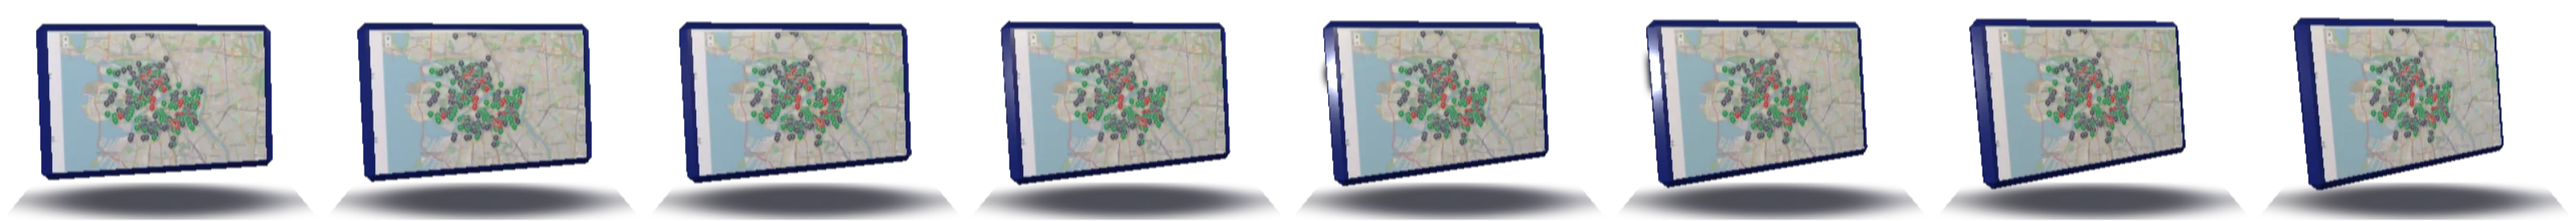
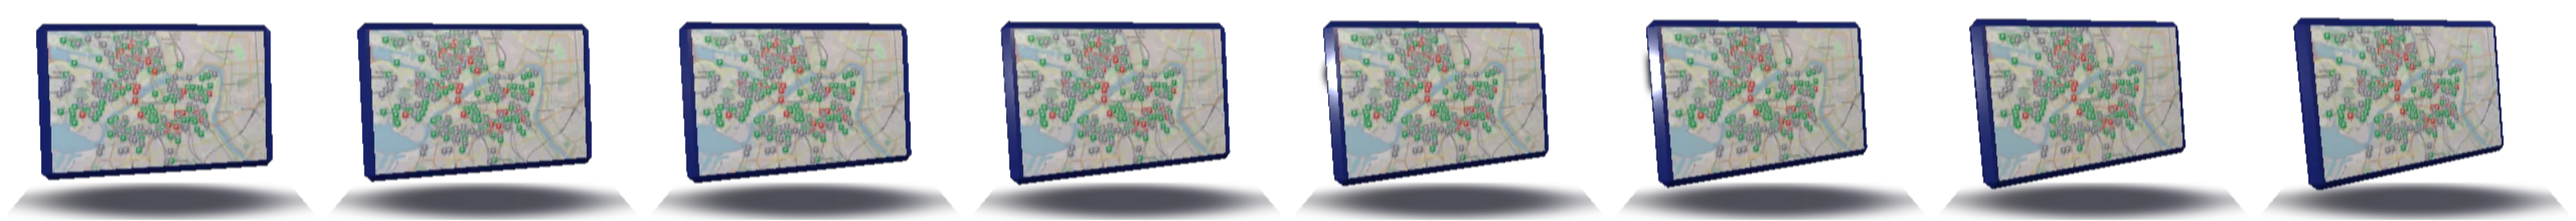
Deploy 14 November 2026 from 299e7bb-dirty

diff --git a/projects/index.html b/projects/index.html
@@ -54,7 +54,6 @@ html, body { margin: 0; background: #000; -webkit-text-size-adjust: 100%; }
 .zero[data-level="1"] { left: 0.6%; top: 3%; }
 .zero[data-level="2"] { left: 0.6%; top: 23%; }
 .zero[data-level="3"] { right: 0.6%; top: 25%; }
-.zero[data-level="4"] { left: 0.6%; top: 43%; }
 .zero .nm { display: block; width: max-content; margin: calc(-0.6 * var(--u)) auto 0; padding: calc(0.35 * var(--u)) calc(0.9 * var(--u)); background: #000; color: #FFF; font: bold calc(1.55 * var(--u))/1 "Times New Roman", Times, serif; letter-spacing: 0.08em; text-transform: uppercase; }
 /* on the right wall a name wider than its medallion grows to the left, not off the screen */
 .zero.r { display: flex; flex-direction: column; align-items: flex-end; }
@@ -96,8 +95,8 @@ a:hover > .tag, a:focus > .tag, .dog:hover > .tag { visibility: visible; }
   .zero .nm { display: none; }
   .zero.on { transform: translateY(-4%) scale(1.12); }
   .zero[data-level] { top: 3vw; right: auto; }
-  .zero[data-level="0"] { left: 2.5vw; } .zero[data-level="1"] { left: 21.75vw; } .zero[data-level="2"] { left: 41vw; }
-  .zero[data-level="3"] { left: 60.25vw; } .zero[data-level="4"] { left: 79.5vw; }
+  .zero[data-level="0"] { left: 6.4vw; } .zero[data-level="1"] { left: 29.8vw; } .zero[data-level="2"] { left: 53.2vw; }
+  .zero[data-level="3"] { left: 76.6vw; }
   .capbar { top: calc(3vw + 18vw + 4vw); gap: 2vw; }
   .capbar img { height: 6.6vw; }
   .about, .prompts { display: none; }
@@ -130,7 +129,6 @@ a:hover > .tag, a:focus > .tag, .dog:hover > .tag { visibility: visible; }
 <div data-ch="bolt" aria-label="Bolt" hidden><img src="../v/proto/tv/bolt-00.gif?v=f9b78617" alt=""><img src="../v/proto/tv/bolt-01.gif?v=777e9a08" alt="" hidden><img src="../v/proto/tv/bolt-02.gif?v=1770ad70" alt="" hidden><img src="../v/proto/tv/bolt-03.gif?v=4e6ebb5a" alt="" hidden><img src="../v/proto/tv/bolt-04.gif?v=e1c7c0a1" alt="" hidden><img src="../v/proto/tv/bolt-05.gif?v=3db861fa" alt="" hidden><img src="../v/proto/tv/bolt-06.gif?v=394e3b3c" alt="" hidden><img src="../v/proto/tv/bolt-07.gif?v=4099d8c2" alt="" hidden><img src="../v/proto/tv/bolt-08.gif?v=a8b8290f" alt="" hidden><img src="../v/proto/tv/bolt-09.gif?v=70c81fd9" alt="" hidden><img src="../v/proto/tv/bolt-10.gif?v=7f170734" alt="" hidden><img src="../v/proto/tv/bolt-11.gif?v=bd52ccd6" alt="" hidden><img src="../v/proto/tv/bolt-12.gif?v=4b5c3770" alt="" hidden><img src="../v/proto/tv/bolt-13.gif?v=e9ee8fec" alt="" hidden><img src="../v/proto/tv/bolt-14.gif?v=d5c98f9f" alt="" hidden><img src="../v/proto/tv/bolt-15.gif?v=09cc8b77" alt="" hidden></div>
 <div data-ch="neslop" aria-label="ne-slop-text" hidden><img class="strip" src="../v/proto/tv/neslop.gif?v=2a66b336" alt=""></div>
 <div data-ch="parking" aria-label="GdeParkovka" hidden><img class="zoom" src="../v/proto/tv/parking.gif?v=4f682c6f" alt=""></div>
-<div data-ch="genealogy" aria-label="Genealogy" hidden><img class="pan" src="../v/proto/tv/genealogy.gif?v=e4c62fda" alt=""></div>
 <canvas class="snow" width="110" height="85" aria-hidden="true"></canvas>
 <span class="glass"></span>
 </a>
@@ -142,7 +140,6 @@ a:hover > .tag, a:focus > .tag, .dog:hover > .tag { visibility: visible; }
 </div>
 <a class="zero" data-level="1" href="https://projects.b0ris.net/bolt/"><img src="../v/proto/zero-bolt-wall.gif?v=e0fbbce4" width="104" height="110" alt="Bolt, photo viewer"><span class="nm">Bolt</span><span class="tag l" style="left:60%;top:-6%">photo viewer</span></a>
 <a class="zero" data-level="2" href="https://projects.b0ris.net/ne-slop-text/"><img src="../v/proto/zero-neslop-wall.gif?v=f4c5f193" width="104" height="110" alt="ne-slop-text, writing skill"><span class="nm">ne-slop-text</span><span class="tag l" style="left:60%;top:-6%">writing skill</span></a>
-<a class="zero" data-level="4" href="https://projects.b0ris.net/genealogy/"><img src="../v/proto/zero-genealogy-wall.gif?v=fc03e690" width="104" height="110" alt="Genealogy, family archive"><span class="nm">Genealogy</span><span class="tag l" style="left:60%;top:-6%">family archive</span></a>
 <a class="zero r" data-level="0" href="https://projects.b0ris.net/uvcdv-capture/"><img src="../v/proto/zero-uvcdv-wall.gif?v=f507d42b" width="104" height="110" alt="uvcdv-capture, MiniDV capture"><span class="nm">uvcdv-capture</span><span class="tag" style="right:30%;top:-6%">tape capture</span></a>
 <a class="zero r" data-level="3" href="https://projects.b0ris.net/gdeparkovka/"><img src="../v/proto/zero-parking-wall.gif?v=ac97946d" width="104" height="110" alt="GdeParkovka, parking map"><span class="nm">GdeParkovka</span><span class="tag" style="right:30%;top:-6%">parking map</span></a>
 <div class="capbar">
@@ -162,7 +159,7 @@ a:hover > .tag, a:focus > .tag, .dog:hover > .tag { visibility: visible; }
 
 </main>
 <script src="../v/tape.js?v=49923b1c"></script>
-<script src="../v/proto/menu.js?v=43e74419"></script>
+<script src="../v/proto/menu.js?v=e51fffcd"></script>
 <script src="../v/disc/tundra/frames.js?v=02a655b9"></script>
 <script src="../v/disc/tundra/phone/frames.js?v=1a488e34"></script>
 <script src="../v/disc/desk-dog.js?v=651a8650"></script>

diff --git a/list/index.html b/list/index.html
@@ -47,8 +47,7 @@ body { margin: 0; min-height: 100vh; color: #CCEEFF; font: 17px/1.45 Arial, Helv
 <li><a class="card" href="https://projects.b0ris.net/uvcdv-capture/"><span class="slab" style="background-image:url(../v/disc/card-uvcdv.webp?v=923b9edc)" role="img" aria-label="The uvcdv-capture window on a card"></span><span><b>uvcdv-capture</b><span class="what">Captures MiniDV tapes over USB on a Mac that has no FireWire.</span><span class="go">Open &#9654;</span></span></a></li>
 <li><a class="card" href="https://projects.b0ris.net/bolt/"><span class="slab" style="background-image:url(../v/disc/card-bolt.webp?v=8e894f54)" role="img" aria-label="Bolt showing one of my photos on a card"></span><span><b>Bolt</b><span class="what">A fast photo viewer for macOS.</span><span class="go">Open &#9654;</span></span></a></li>
 <li><a class="card" href="https://projects.b0ris.net/ne-slop-text/"><span class="slab" style="background-image:url(../v/disc/card-neslop.webp?v=f66e1dba)" role="img" aria-label="The ne-slop-text blind test on a card"></span><span><b>ne-slop-text</b><span class="what">A Claude Code skill that moves a text away from what models write by default.</span><span class="go">Open &#9654;</span></span></a></li>
-<li><a class="card" href="https://projects.b0ris.net/gdeparkovka/"><span class="slab" style="background-image:url(../v/disc/card-parking.webp?v=232e0216)" role="img" aria-label="The GdeParkovka map on a card"></span><span><b>GdeParkovka</b><span class="what">A map of free parking in Russia. Drivers add the points.</span><span class="go">Open &#9654;</span></span></a></li>
-<li><a class="card" href="https://projects.b0ris.net/genealogy/"><span class="slab" style="background-image:url(../v/disc/card-genealogy.webp?v=f39da74a)" role="img" aria-label="A church register of 1786 on a card"></span><span><b>Genealogy</b><span class="what">A knowledge base of my mother&rsquo;s family line, in plain files and git.</span><span class="go">Open &#9654;</span></span></a></li>
+<li><a class="card" href="https://projects.b0ris.net/gdeparkovka/"><span class="slab" style="background-image:url(../v/disc/card-parking.webp?v=9e7ed07d)" role="img" aria-label="The GdeParkovka map on a card"></span><span><b>GdeParkovka</b><span class="what">A map of free parking in Russia. Drivers add the points.</span><span class="go">Open &#9654;</span></span></a></li>
 </ul>
 </main>
 <script src="../v/disc/disc.js?v=6a7d03bd"></script>

diff --git a/cv/index.html b/cv/index.html
@@ -92,9 +92,8 @@ h2 { display: inline-block; margin: 56px 0 18px; padding: 4px 12px 3px; backgrou
 <li><a href="https://projects.b0ris.net/uvcdv-capture/"><img src="../v/proto/box-uvcdv.png?v=8b09dde6" width="220" height="173" alt=""><b>uvcdv-capture</b>Captures MiniDV tapes over USB on a Mac that has no FireWire.</a></li>
 <li><a href="https://projects.b0ris.net/ne-slop-text/"><img src="../v/disc/box-neslop.png?v=d8a3974d" width="220" height="156" alt=""><b>ne-slop-text</b>A Claude Code skill that moves a text away from what models write by default.</a></li>
 <li><a href="https://projects.b0ris.net/gdeparkovka/"><img src="../v/proto/box-parking.png?v=a443a7dc" width="220" height="162" alt=""><b>GdeParkovka</b>A map of free parking in Russia. Drivers add the points.</a></li>
-<li><a href="https://projects.b0ris.net/genealogy/"><img src="../v/disc/box-genealogy.png?v=3944e322" width="220" height="168" alt=""><b>Genealogy</b>A knowledge base of my mother&rsquo;s family line, in plain files and git.</a></li>
 </ul>
-<p class="more"><a href="../projects/">All five on the projects screen &#9654;</a></p>
+<p class="more"><a href="../projects/">All four on the projects screen &#9654;</a></p>
 
 <h2>Experience</h2>
 <div class="job">

diff --git a/v/proto/menu.js b/v/proto/menu.js
@@ -12,9 +12,7 @@
     { key: "neslop", name: "ne-slop-text", href: proj + "/ne-slop-text/", counters: [["page", "6 pages"], ["check", "26 features"]], glow: "200,200,190",
       about: "Claude Code skill that moves a text away from what models write by default." },
     { key: "parking", name: "GdeParkovka", href: proj + "/gdeparkovka/", counters: [["parking", "367 points"], ["calendar", "July 2026"]], glow: "170,190,160",
-      about: "Map of free parking in Russia. Drivers add the points." },
-    { key: "genealogy", name: "Genealogy", href: proj + "/genealogy/", counters: [["person", "215 people"], ["scroll", "123 sources"]], glow: "210,205,190",
-      about: "Knowledge base of my mother\u2019s family line, in plain files and git." }
+      about: "Map of free parking in Russia. Drivers add the points." }
   ];
   var tv = game.querySelector(".tv"), cap = game.querySelector("[data-cap]"), counters = game.querySelector("[data-counters]");
   var screens = {};
